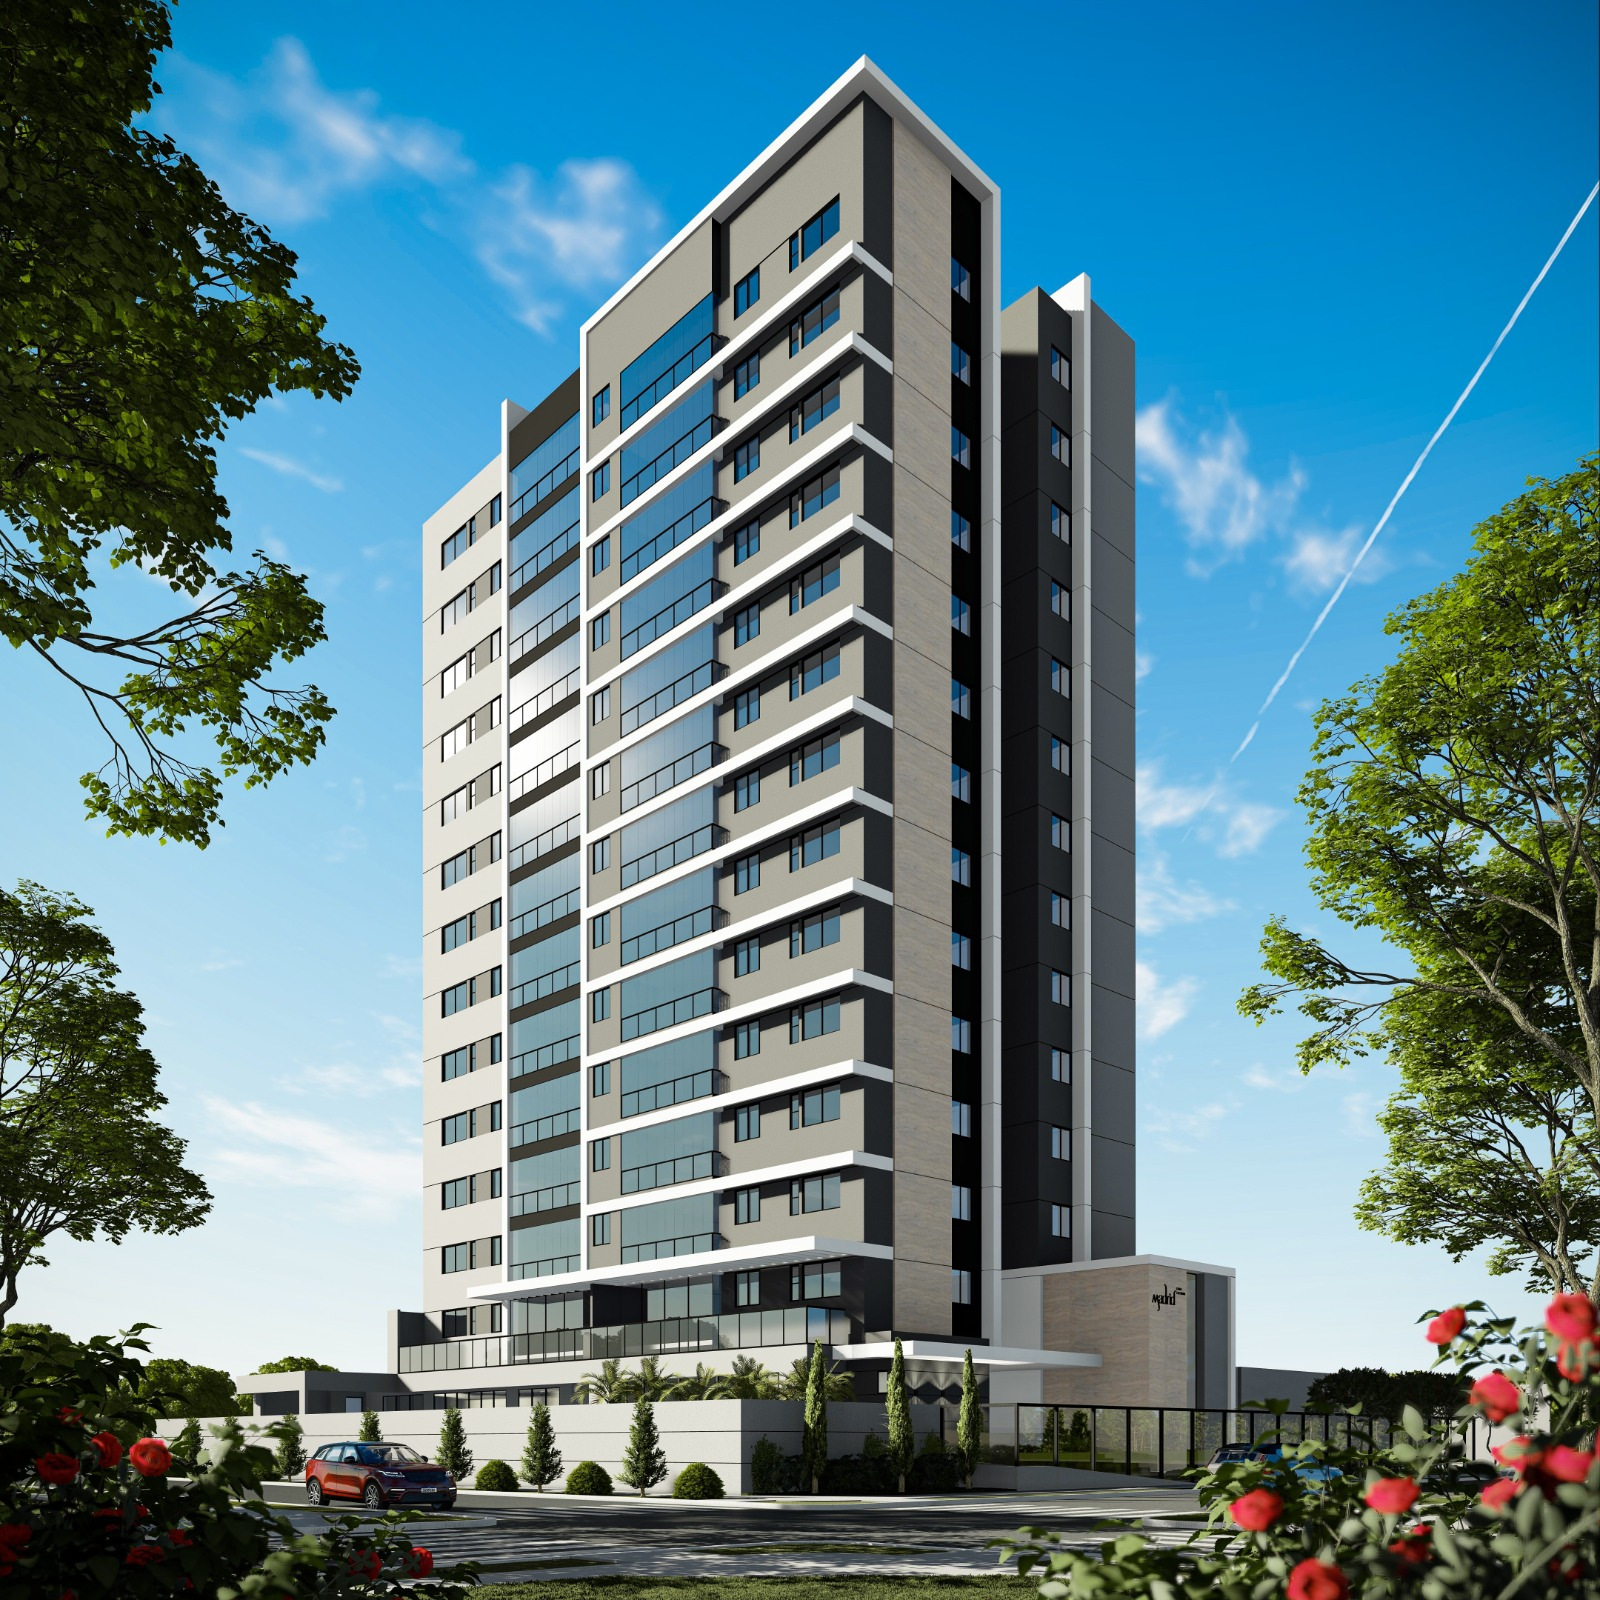
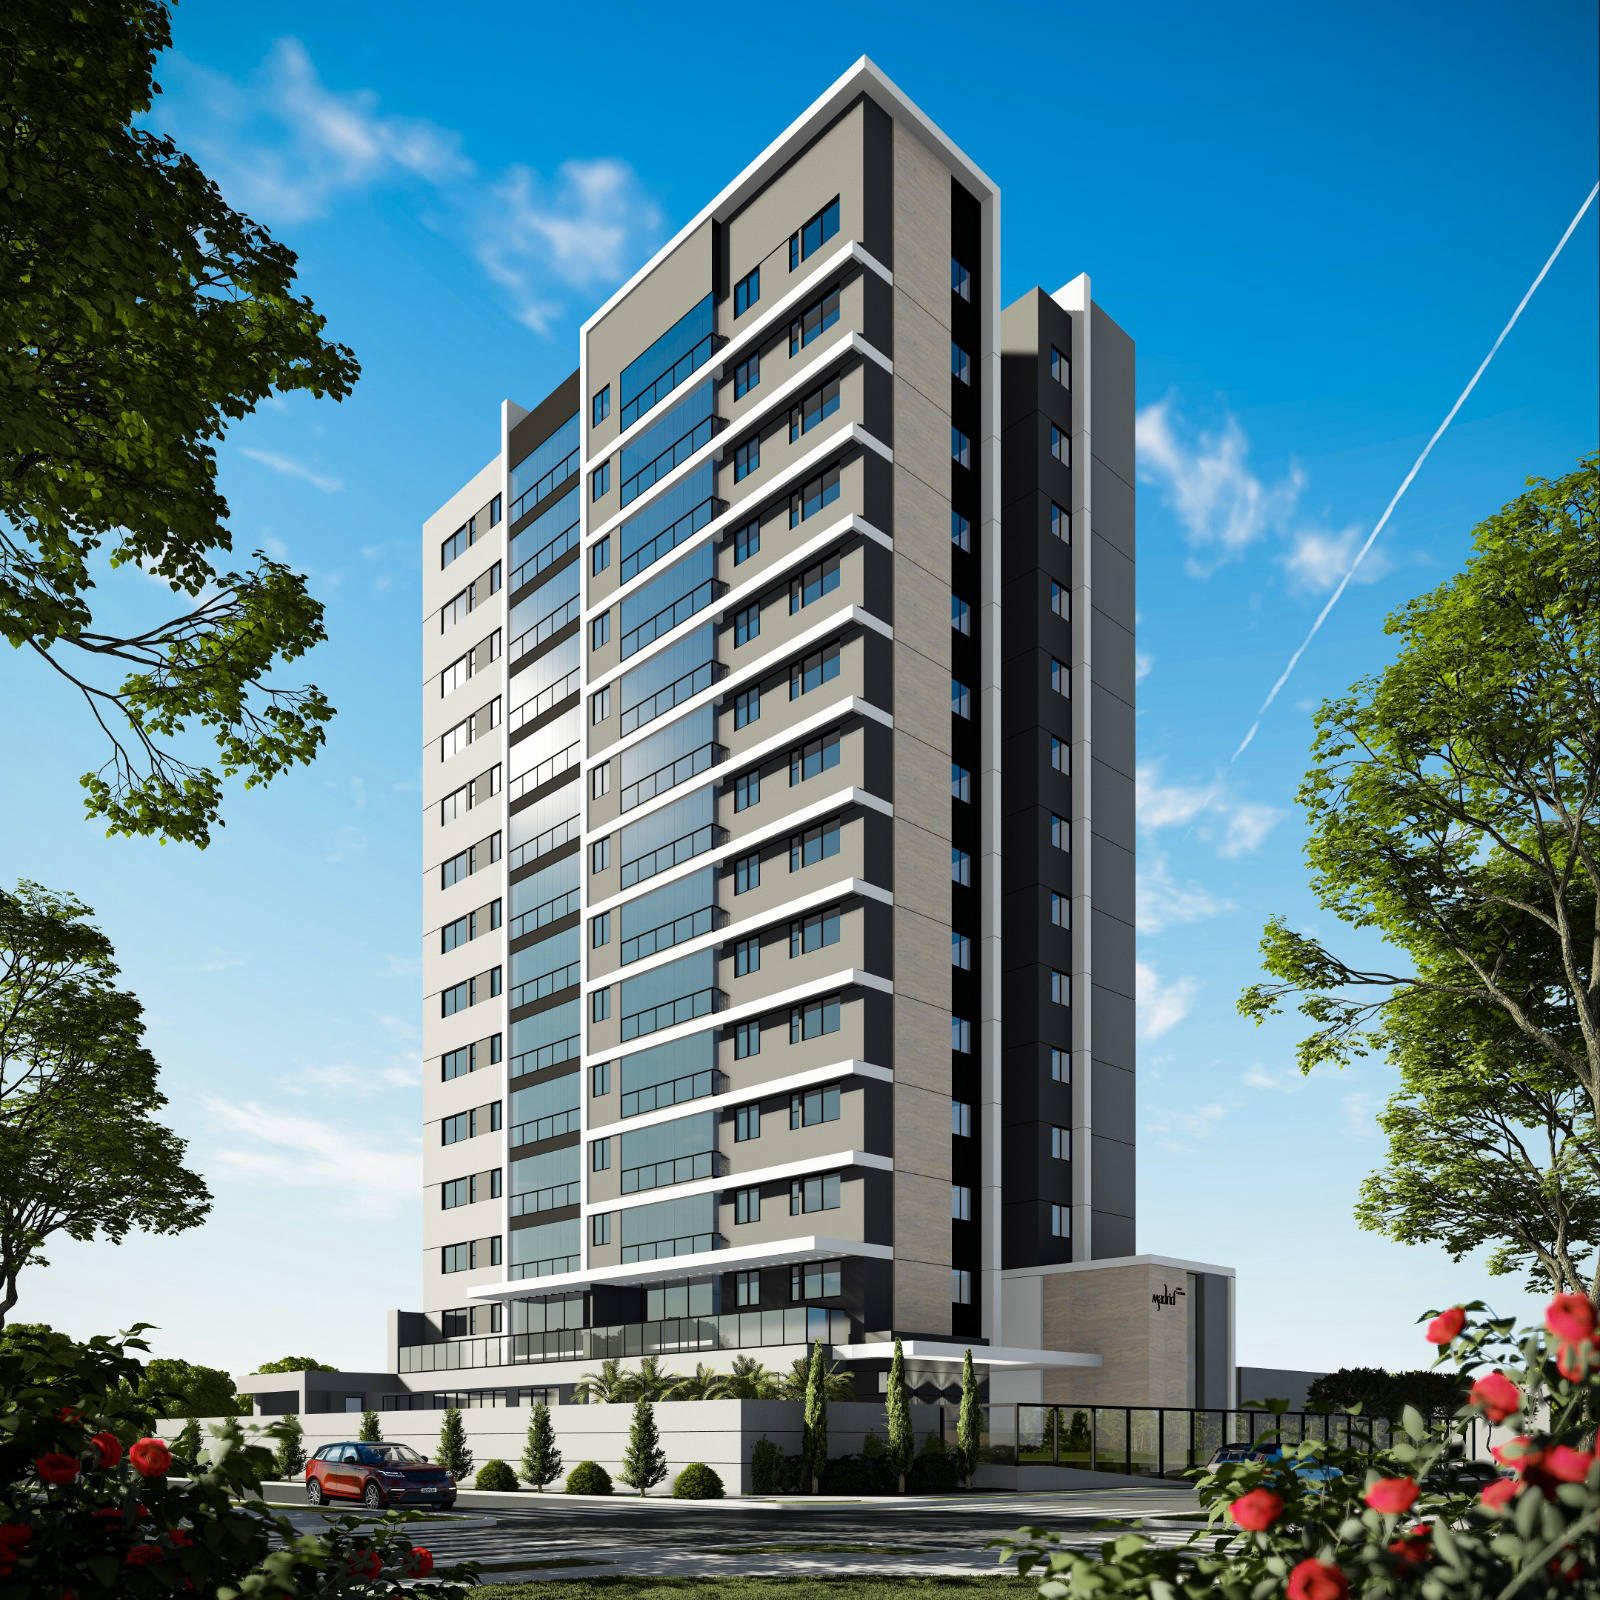
landing: a galeria para de baixar 8 MB por visita
A grade desenha quadrados de ~300px mas baixava os 19 arquivos ORIGINAIS de
2000px. Num 4G do interior isso era mais de 40 segundos e quase 1% de um pacote
de 1 GB, por visita — o maior problema tecnico do site, e nao era perto.

O QUE MUDOU
- Nova pasta fotos-mini/ com 19 miniaturas de 900x675 (~83 KB cada). A GRADE usa
  a miniatura; o ORIGINAL so e baixado quando a pessoa amplia a foto.
  8,05 MB -> 1,54 MB numa visita que role a galeria inteira (-80%).
- gerar-miniaturas.js na raiz, para isso ser reproduzivel por quem vier depois.
- fachada-dia.jpg (foto do topo, com prioridade de carregamento): 710 -> 465 KB.
  Uma primeira tentativa reduziu para 1280px e foi DESFEITA: o topo e cover em
  tela cheia, entao num monitor de 1920px viraria ampliacao. Agora ela mantem
  1600x1600 e so perde qualidade de compressao.
- Os dois logos: 4725px de largura para desenhar 95px. Agora 600px.
  97+99 KB -> 13+14 KB.

TRES CORRECOES QUE A REVISAO ADVERSARIAL EXIGIU

1. A pasta fotos-mini/ estava FORA do versionamento e o validar.js aprovava
   assim mesmo — porque ele conferia o DISCO, e o site e servido pelo
   REPOSITORIO. Publicar com `git add -u` teria deixado a galeria inteira em 19
   quadrados cinzas no ar, com o portao de publicacao dizendo "pode publicar".
   Agora o validar.js pergunta ao git (`git ls-files`) se cada arquivo usado
   pela landing esta versionado, e reprova se nao estiver.

2. As miniaturas eram de 640px e ficavam AMPLIADAS 1,5x num iPhone Pro, que e
[…]

diff --git a/landing.html b/landing.html
@@ -421,6 +421,23 @@
         .lightbox img {
             max-width: 92vw; max-height: 88vh; object-fit: contain;
             border-radius: 8px; box-shadow: 0 30px 80px rgba(0,0,0,0.6);
+            /* Desde que a GRADE passou a usar miniatura, o original chega frio no
+               lightbox: em 4G são centenas de KB por toque. Sem isto o visitante
+               tocava e olhava um retângulo preto vazio, sem saber se travou. */
+            opacity: 0; transition: opacity 0.25s var(--ease);
+        }
+        .lightbox.pronta img { opacity: 1; }
+        .lightbox::before {
+            content: ''; position: absolute; width: 34px; height: 34px;
+            border: 2px solid rgba(255,255,255,0.25); border-top-color: var(--brand-gold);
+            border-radius: 50%; animation: girando 0.8s linear infinite;
+            opacity: 0; transition: opacity 0.2s;
+        }
+        .lightbox.carregando::before { opacity: 1; }
+        @keyframes girando { to { transform: rotate(360deg); } }
+        @media (prefers-reduced-motion: reduce) {
+            .lightbox::before { animation: none; }
+            .lightbox img { transition: none; }
         }
         .lightbox .lb-close, .lightbox .lb-prev, .lightbox .lb-next {
             position: absolute; background: rgba(255,255,255,0.1);
@@ -1347,12 +1364,18 @@
             { src: 'banheiro-suite.jpg', label: 'Acabamento · Banheiro da Suíte' },
             { src: 'banheiro-02.jpg', label: 'Acabamento · Banheiro' },
         ];
+        // A GRADE usa miniatura de 900x675 (~80 KB); o ORIGINAL só é baixado quando
+        // a pessoa amplia a foto. Antes a grade baixava os 19 originais — 8,05 MB
+        // para desenhar quadrados de ~300px. Agora a primeira visita gasta 0,85 MB.
+        // As miniaturas são geradas por `node gerar-miniaturas.js` e vivem em fotos-mini/.
+        const miniatura = (arq) => 'fotos-mini/' + arq.replace(/[.](jpeg|png)$/i, '.jpg');
+
         const galleryGrid = document.getElementById('galleryGrid');
         galleryFiles.forEach((g, idx) => {
             const div = document.createElement('div');
             div.className = 'gallery-item';
             div.innerHTML = `
-                <img src="${g.src}" alt="${g.label}" loading="lazy">
+                <img src="${miniatura(g.src)}" alt="${g.label}" width="900" height="675" loading="lazy" decoding="async">
                 <div class="gallery-label">${g.label}</div>
             `;
             div.addEventListener('click', () => openLightbox(g.src, idx));
@@ -1372,9 +1395,31 @@
             cap.textContent = texto;
             cap.style.display = texto ? 'block' : 'none';
         }
-        function openLightbox(src, idx) {
+        // Troca a foto do lightbox mostrando que ALGO está acontecendo. O original
+        // não está mais em cache (a grade usa miniatura), então em rede móvel há
+        // uma espera real de centenas de KB — ela precisa ser visível.
+        // Não mostro a miniatura no lugar: ela é um corte 4:3 e o original tem
+        // outra proporção, então a troca daria um salto de enquadramento.
+        function trocarFotoDoLightbox(src) {
+            lb.classList.remove('pronta');
+            lb.classList.add('carregando');
             lbImg.src = src;
+            if (lbImg.complete && lbImg.naturalWidth > 0) lightboxPronta();
+        }
+        function lightboxPronta() {
+            lb.classList.remove('carregando');
+            lb.classList.add('pronta');
+        }
+        lbImg.addEventListener('load', lightboxPronta);
+        // Se a foto falhar, não deixar o visitante preso olhando o giro eterno.
+        lbImg.addEventListener('error', () => {
+            lb.classList.remove('carregando');
+            const cap = document.getElementById('lbCaption');
+            if (cap) { cap.textContent = 'Não foi possível carregar esta foto.'; cap.style.display = 'block'; }
+        });
+        function openLightbox(src, idx) {
             lbIdx = (typeof idx === 'number') ? idx : -1;
+            trocarFotoDoLightbox(src);
             setLbCaption();
             lb.classList.add('open');
             document.body.style.overflow = 'hidden';
@@ -1386,10 +1431,10 @@
         document.querySelector('.lb-close').addEventListener('click', closeLightbox);
         lb.addEventListener('click', (e) => { if (e.target === lb) closeLightbox(); });
         document.querySelector('.lb-prev').addEventListener('click', () => {
-            if (lbIdx >= 0) { lbIdx = (lbIdx - 1 + galleryFiles.length) % galleryFiles.length; lbImg.src = galleryFiles[lbIdx].src; setLbCaption(); }
+            if (lbIdx >= 0) { lbIdx = (lbIdx - 1 + galleryFiles.length) % galleryFiles.length; trocarFotoDoLightbox(galleryFiles[lbIdx].src); setLbCaption(); }
         });
         document.querySelector('.lb-next').addEventListener('click', () => {
-            if (lbIdx >= 0) { lbIdx = (lbIdx + 1) % galleryFiles.length; lbImg.src = galleryFiles[lbIdx].src; setLbCaption(); }
+            if (lbIdx >= 0) { lbIdx = (lbIdx + 1) % galleryFiles.length; trocarFotoDoLightbox(galleryFiles[lbIdx].src); setLbCaption(); }
         });
         window.addEventListener('keydown', (e) => {
             if (!lb.classList.contains('open')) return;

diff --git a/validar.js b/validar.js
@@ -275,6 +275,70 @@ medicao.forEach(m => {
         'ligar rastreamento sem declarar é o tipo de coisa que a LGPD pune');
 });
 
+// A grade da galeria usa fotos-mini/. Adicionar foto em galleryFiles sem rodar
+// `node gerar-miniaturas.js` deixa um quadrado quebrado no site publico — e o
+// erro so aparece para quem visita, nunca para quem publicou.
+(function () {
+    const ini = lnd.indexOf('galleryFiles');
+    const fim = lnd.indexOf('];', ini);
+    if (ini < 0 || fim < 0) { erros.push('não achei a lista galleryFiles na landing.html'); return; }
+    const fotos = [...new Set([...lnd.slice(ini, fim).matchAll(/src: *['"`]([^'"`]+)['"`]/g)].map(m => m[1]))];
+    checar('a galeria tem fotos listadas', fotos.length > 0);
+    const semMini = fotos.filter(f => !fs.existsSync(path.join(DIR, 'fotos-mini', f.replace(/[.](jpeg|png)$/i, '.jpg'))));
+    checar('toda foto da galeria tem miniatura', semMini.length === 0,
+        semMini.length + ' sem miniatura (' + semMini.slice(0, 4).join(', ') + ') — rode: node gerar-miniaturas.js');
+    const semOriginal = fotos.filter(f => !fs.existsSync(path.join(DIR, f)));
+    checar('toda foto da galeria tem o arquivo original', semOriginal.length === 0,
+        'o lightbox abre o original: ' + semOriginal.slice(0, 4).join(', ') + ' não existe(m)');
+    checar('a grade usa a miniatura, não o arquivo grande',
+        lnd.includes('<img src="${miniatura(g.src)}"'),
+        'a grade voltou a apontar para o original — 8 MB por visita');
+})();
+
+// O resto deste arquivo confere o DISCO. Mas o site é servido pelo GitHub Pages
+// a partir do que está no REPOSITÓRIO: arquivo que existe aqui e não foi
+// versionado responde 404 no ar. Foi exatamente o risco das miniaturas — a pasta
+// fotos-mini/ nasceu fora do versionamento e todas as checagens passavam, porque
+// olhavam a máquina que já funciona em vez de olhar o que vai ao ar.
+(function () {
+    let rastreados = null;
+    try {
+        const saida = require('child_process').execSync('git ls-files -z', {
+            cwd: DIR, encoding: 'utf8', stdio: ['ignore', 'pipe', 'ignore'], maxBuffer: 8 * 1024 * 1024
+        });
+        rastreados = new Set(saida.split('').map(x => x.trim()).filter(Boolean));
+    } catch (e) { rastreados = null; }
+
+    if (!rastreados || rastreados.size === 0) {
+        avisos.push('não consegui perguntar ao git quais arquivos estão versionados — confira à mão se todo arquivo novo entrou no commit');
+        return;
+    }
+
+    // todo arquivo local que a landing referencia
+    const refs = new Set();
+    const juntar = (re, grupo) => { for (const m of lnd.matchAll(re)) refs.add(m[grupo]); };
+    juntar(/src="([^"${}]+.(?:jpe?g|png|mp4|pdf))"/gi, 1);
+    juntar(/href="([^"${}]+.(?:jpe?g|png|mp4|pdf))"/gi, 1);
+    juntar(/src: *['"`]([^'"`${}]+[.](?:jpe?g|png))['"`]/gi, 1);
+    // as miniaturas correspondentes (a grade monta o caminho por JS)
+    [...refs].forEach(f => {
+        if (f.indexOf('fotos-mini/') === 0) return;
+        const mini = 'fotos-mini/' + f.replace(/[.](jpeg|png)$/i, '.jpg');
+        if (fs.existsSync(path.join(DIR, mini))) refs.add(mini);
+    });
+
+    const fora = [...refs].filter(f => !rastreados.has(f));
+    checar('todo arquivo que a landing usa está versionado', fora.length === 0,
+        fora.length + ' fora do repositório (' + fora.slice(0, 5).join(', ') + ') — existe aqui, mas daria 404 no ar. Rode: git add -A');
+
+    ['gerar-miniaturas.js', 'validar.js', 'privacidade.html'].forEach(f => {
+        if (fs.existsSync(path.join(DIR, f))) {
+            checar(f + ' está versionado', rastreados.has(f),
+                'existe na sua máquina mas não no repositório — some para quem clonar');
+        }
+    });
+})();
+
 // ─────────────────────────────────────────────────────────────
 // 7. ACESSO
 // ─────────────────────────────────────────────────────────────

diff --git a/gerar-miniaturas.js b/gerar-miniaturas.js
@@ -1,0 +1,59 @@
+#!/usr/bin/env node
+/**
+ * GERAR-MINIATURAS.JS — reduz o peso das fotos da landing
+ * -------------------------------------------------------
+ * Rode na pasta do projeto:   node gerar-miniaturas.js
+ *
+ * Por que existe: a grade da galeria mostra quadrados de ~300px, mas baixava os
+ * arquivos originais de 2000px — 8,05 MB numa unica visita. Num 4G do interior
+ * isso e mais de 40 segundos e quase 1% de um pacote de 1 GB, por visita.
+ *
+ * O que faz: para cada foto listada em galleryFiles (dentro da landing.html),
+ * grava uma miniatura de 640x480 em fotos-mini/. O ORIGINAL continua intacto e
+ * e o que abre quando a pessoa amplia a foto.
+ *
+ * Quando rodar: sempre que adicionar ou trocar uma foto da galeria.
+ * O validar.js REPROVA a publicacao se faltar miniatura para alguma foto.
+ *
+ * Dependencia: a biblioteca jimp, que vive em _propostas/node_modules (fora do
+ * versionamento). Se a pasta nao existir:  npm install jimp
+ */
+const fs = require('fs');
+const path = require('path');
+
+const DIR = __dirname;
+const LARGURA = 900, ALTURA = 675, QUALIDADE = 62;
+
+let Jimp;
+try { ({ Jimp } = require(path.join(DIR, '_propostas', 'node_modules', 'jimp'))); }
+catch (e) { try { ({ Jimp } = require('jimp')); } catch (e2) {
+    console.log('Nao achei a biblioteca jimp. Rode:  npm install jimp'); process.exit(1);
+} }
+
+const fotosDaGaleria = () => {
+    const html = fs.readFileSync(path.join(DIR, 'landing.html'), 'utf8');
+    const ini = html.indexOf('galleryFiles');
+    const fim = html.indexOf('];', ini);
+    if (ini < 0 || fim < 0) { console.log('Nao achei a lista galleryFiles na landing.html'); process.exit(1); }
+    return [...new Set([...html.slice(ini, fim).matchAll(/src: *'([^']+)'/g)].map(m => m[1]))];
+};
+
+(async () => {
+    const destino = path.join(DIR, 'fotos-mini');
+    if (!fs.existsSync(destino)) fs.mkdirSync(destino);
+    const fotos = fotosDaGaleria();
+    let antes = 0, depois = 0, faltando = [];
+    console.log(`\nGerando ${fotos.length} miniaturas (${LARGURA}x${ALTURA}, qualidade ${QUALIDADE})\n`);
+    for (const f of fotos) {
+        const orig = path.join(DIR, f);
+        if (!fs.existsSync(orig)) { faltando.push(f); console.log('  ! nao achei ' + f); continue; }
+        const im = await Jimp.read(orig);
+        const buf = await im.cover({ w: LARGURA, h: ALTURA }).getBuffer('image/jpeg', { quality: QUALIDADE });
+        fs.writeFileSync(path.join(destino, f.replace(/[.](jpeg|png)$/i, '.jpg')), buf);
+        const a = fs.statSync(orig).size;
+        antes += a; depois += buf.length;
+        console.log('  ' + f.padEnd(28) + Math.round(a / 1024).toString().padStart(5) + ' KB  ->  ' + Math.round(buf.length / 1024).toString().padStart(4) + ' KB');
+    }
+    console.log('\n  ' + (antes / 1048576).toFixed(2) + ' MB  ->  ' + (depois / 1048576).toFixed(2) + ' MB   (-' + Math.round((1 - depois / antes) * 100) + '%)\n');
+    if (faltando.length) { console.log('FALTOU o arquivo original de: ' + faltando.join(', ') + '\n'); process.exit(1); }
+})().catch(e => { console.log('ERRO: ' + e.message); process.exit(1); });

diff --git a/agents.md b/agents.md
@@ -48,6 +48,8 @@ As correções abaixo VALEM sobre qualquer texto mais antigo neste documento:
 | **Data de entrega** | Constante `ENTREGA` no topo do script → `ENTREGA_DATE` / `ENTREGA_ISO` / `ENTREGA_BR` / `ENTREGA_MES_ANO`. Nunca escrever data solta. (V394) |
 | **Valor Total** | Uma função só: `AppSim._valorTotal()` (usada por `_currentPrice`, `calculate` e `_getProposalData`). Não repetir a fórmula. (V394) |
 | **Histórico do Git** | Consolidado em 15/08/2026 num commit único para tirar preços e 141,5 MB de imagens do repositório público. As mensagens dos 335 commits antigos estão em `HISTORICO.md`. |
+| **Fotos da galeria** | A grade usa **`fotos-mini/`** (900×675, ~83 KB cada); o **original** só é baixado quando a pessoa amplia. Trocar ou acrescentar foto em `galleryFiles` exige rodar **`node gerar-miniaturas.js`** e **commitar a pasta** — o `validar.js` reprova se faltar miniatura, se faltar o original, se a grade voltar a apontar para o arquivo grande, **ou se algum arquivo usado pela landing não estiver versionado** (essa última nasceu porque `fotos-mini/` quase foi publicada fora do repositório: tudo funcionava na máquina e a galeria daria 404 no ar). Antes: 8,05 MB por visita; agora: 1,54 MB. (18/08/2026) |
+| **Originais em alta** | Logos e a foto do topo foram recomprimidos no lugar. Os originais em alta resolução ficaram em **`C:Projetos_originais_madrid`**, fora do repositório — é a única cópia. Precisa de logo para impressão ou placa de obra? É lá. (18/08/2026) |
 | **Imagens originais** | Os `.png` de alta resolução saíram do repositório (`.gitignore`) — o site usa os `.jpg` otimizados. Não recommitar os originais. (V396) |
 | **App Check** | Preparado nas **duas** páginas (`APP_CHECK_SITE_KEY`, hoje vazio = desligado). Ligar exige 4 coisas juntas, e o `validar.js` reprova se faltar qualquer uma: (1) a MESMA chave nos dois arquivos, (2) o `firebase-app-check-compat.js` nos dois, (3) `https://www.google.com` em `script-src` **e** `frame-src` da CSP do `index.html` — senão o reCAPTCHA é bloqueado calado e nenhum corretor entra, (4) o reCAPTCHA declarado na `privacidade.html`. Só depois de publicado é que se marca "Enforced" no console. A chave tem que ser reCAPTCHA **v3 clássica** (console do App Check), não Enterprise. (17/08/2026) |
 | **Medição (GA4 / Pixel)** | `GA_ID` e `PIXEL_ID` no fim do script da `landing.html`, vazios = desligados (nada é baixado, nenhum cookie). Preencher um deles **obriga** a `privacidade.html` a citar o serviço — o `validar.js` reprova senão. O leitor de constantes (`lerConst`) aceita aspas simples, duplas e crase e **falha fechado**: se não achar a constante, é erro, nunca "está desligado". A 1ª versão só aceitava aspas simples e aprovava rastreamento não declarado. (17/08/2026) |
